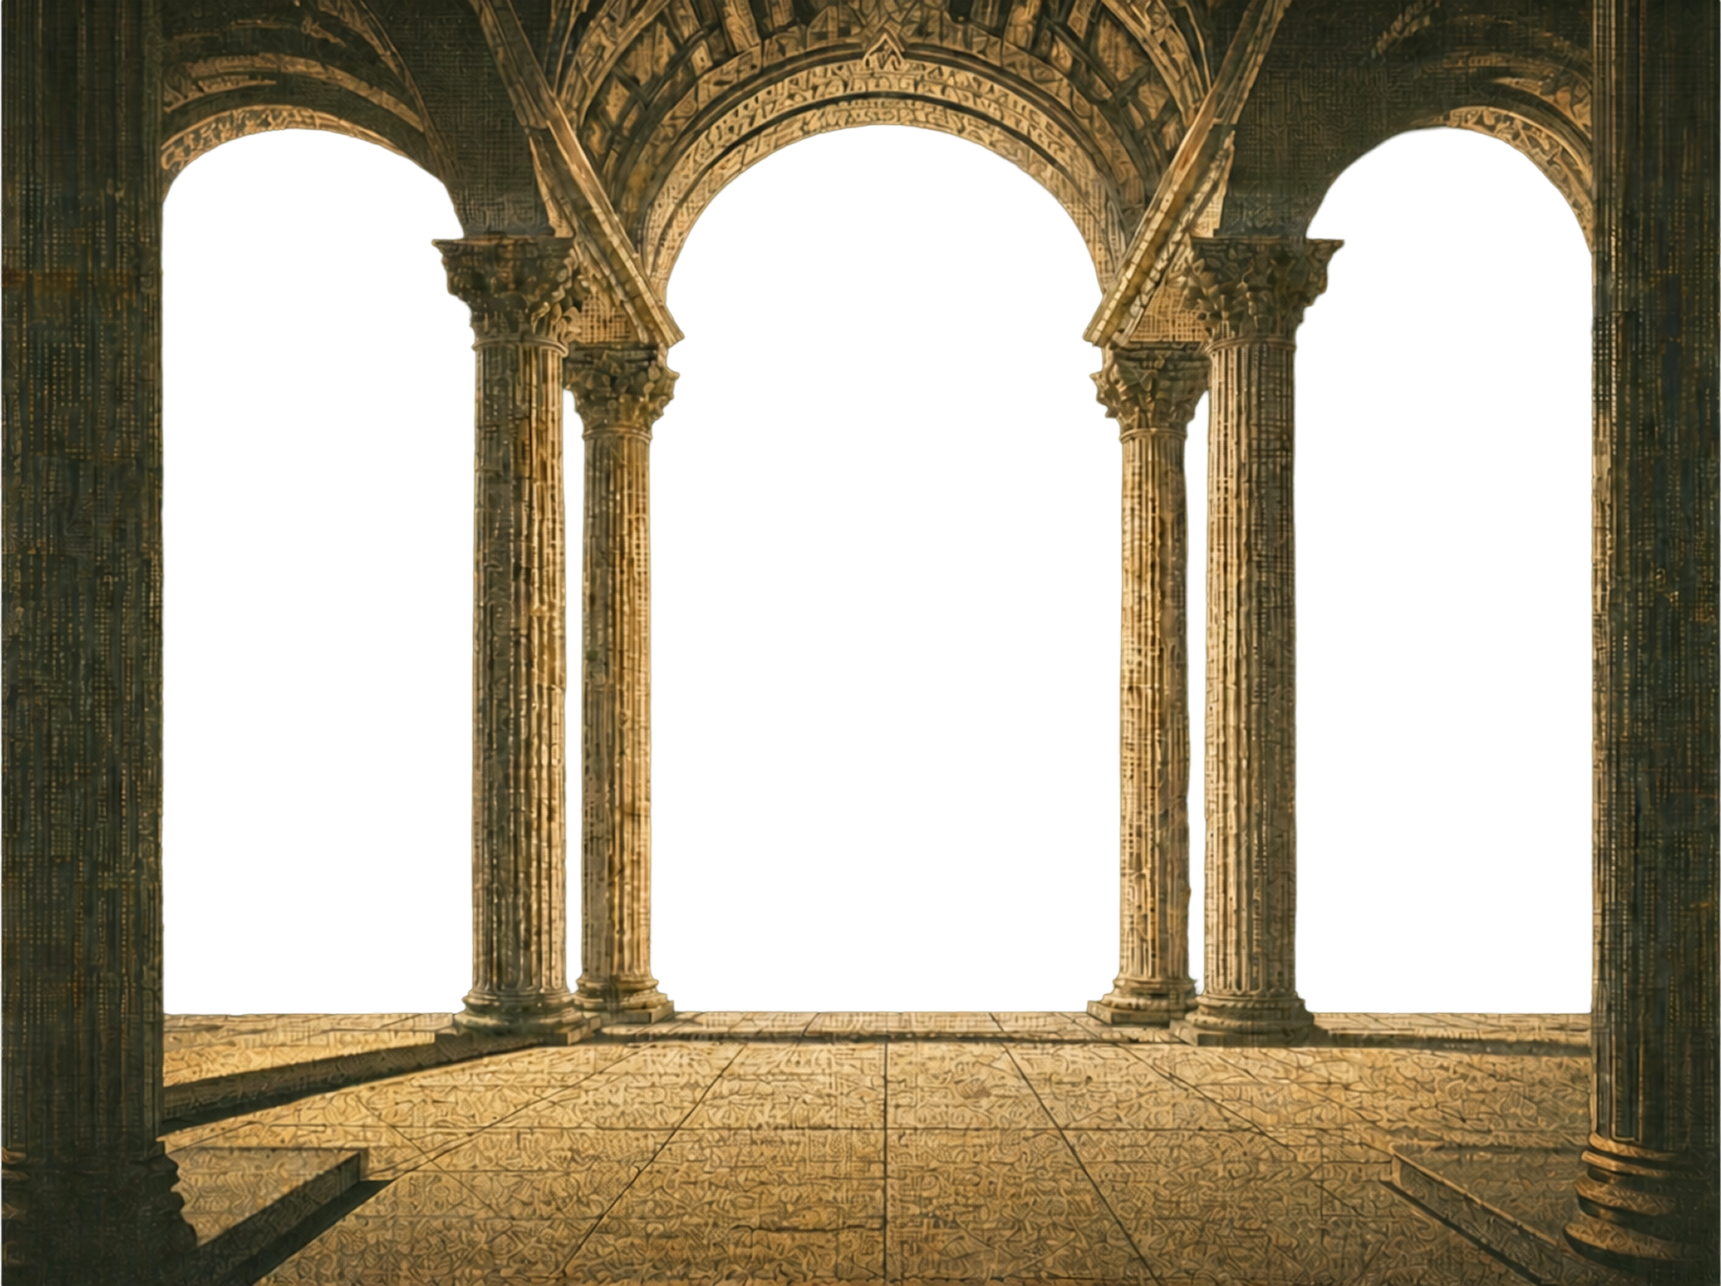
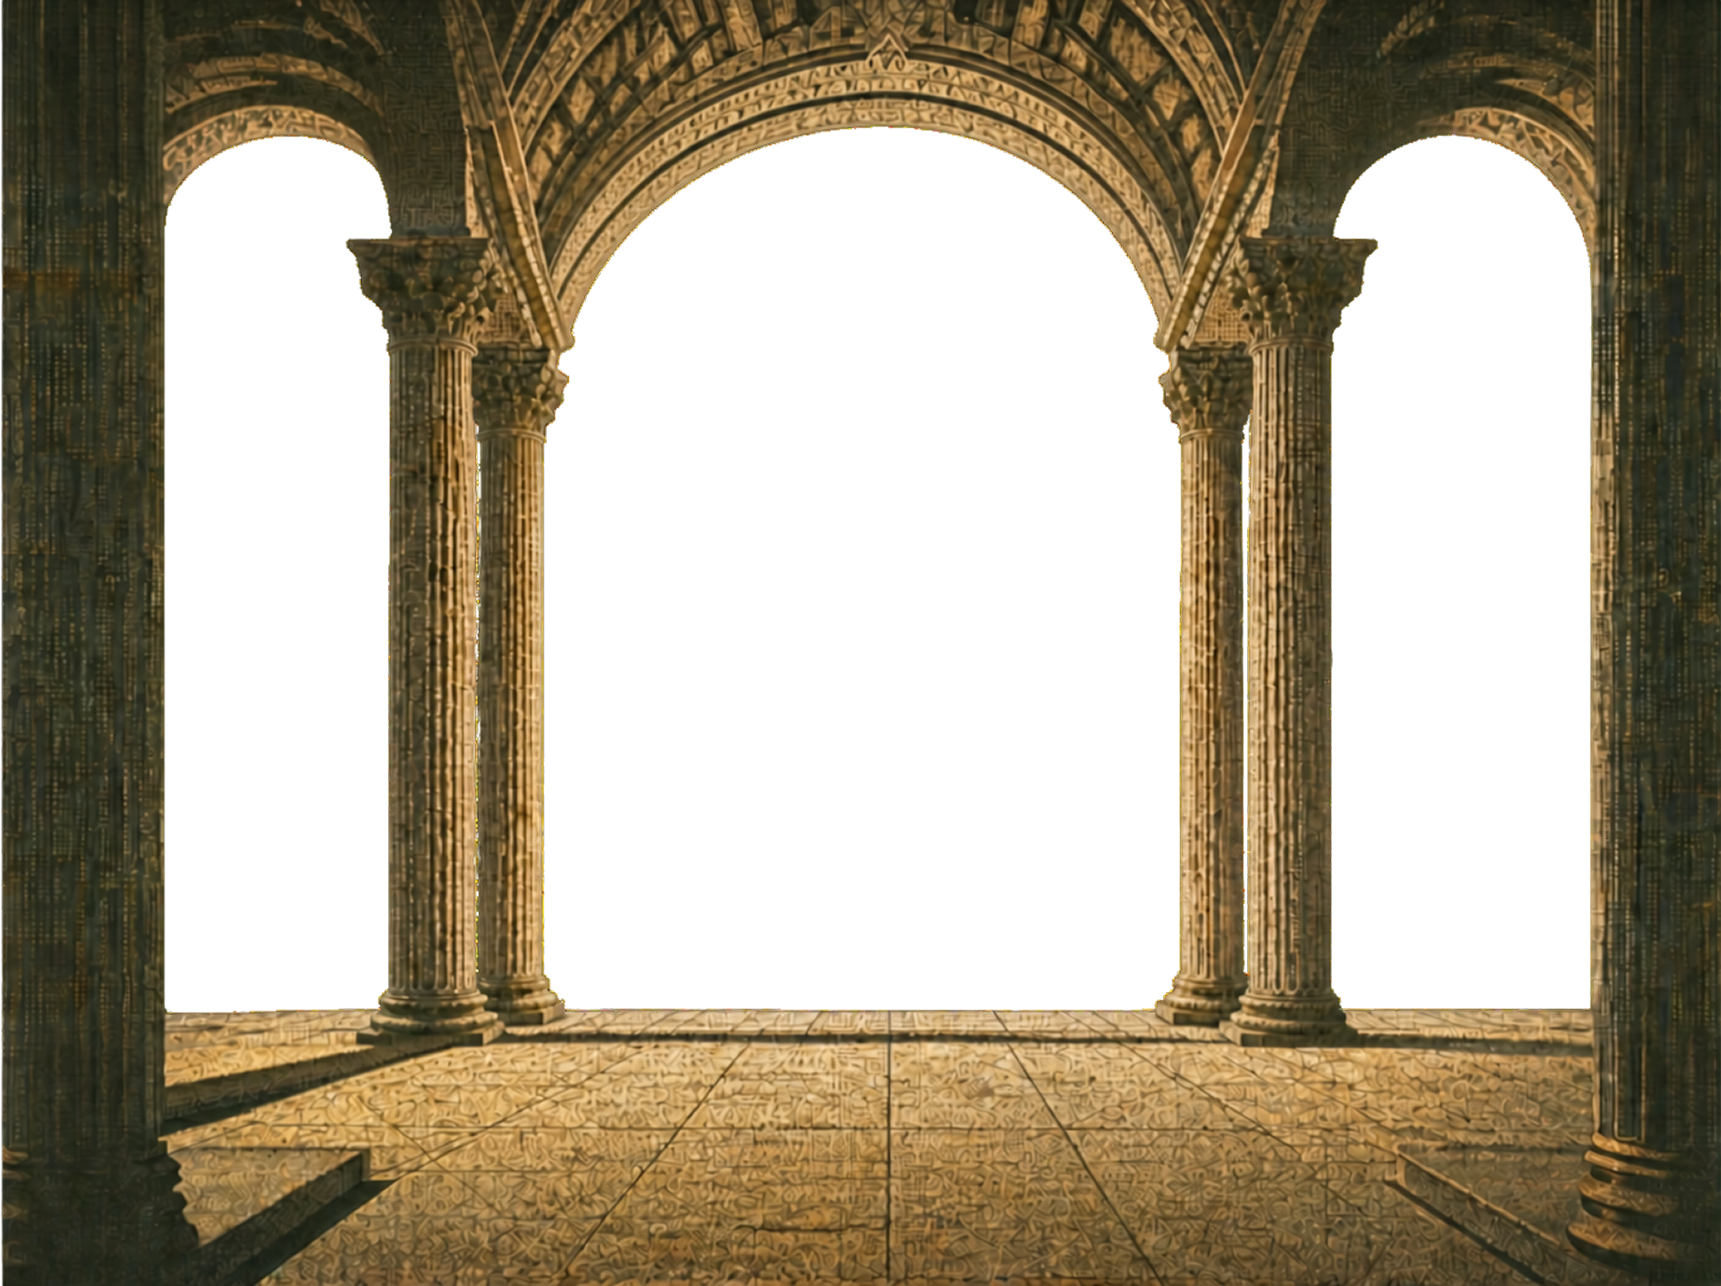
Hero: new 2-C arch plate, resampled higher, and a wider scene-2 measure
The updated 2-C opens the central arch from 0.271 to 0.368 of the plate and
recentres it on exactly 0.500 (it was 0.515), so the mission copy no longer
needs its 51.7% nudge.

Resolution. The source render is 1721x1286 and genuinely soft at 1:1, so there
is no hidden detail to recover — what there was to fix is everything we were
adding on top of it:

  - the arch now encodes at 2582px (1.5x lanczos + light unsharp) so the 1.8x
    entrance dolly and retina are not both upscaling a 1721px texture;
  - it encodes at q88/effort 6 instead of q82, alphaQuality 100 so the cut-out
    edge stays clean;
  - next/image was re-encoding our already-lossy WebP at its default q75, a
    second lossy pass. quality={90} on that one layer, whitelisted via
    images.qualities.

Retina now gets 2582x1929 AVIF at 189KB where it used to get 1721x1286 at 96KB
— 2.25x the pixels for +93KB, spent on the one layer held still under copy.
effort:6 also shaved 3% off the other six layers for free.

Scene-2 copy. Smaller and wider, per the new opening: 26.7px/454px at 1440
where it was 32px/360px. Both dimensions now derive from --arch, the opening's
real width (0.368 * max(100vw, 1.338 * 100svh)) — vw-driven on wide screens,
svh-driven in portrait, where the plate is taller than the stage. Tablet was
the case that needed it: 834x1112 was rendering 17.6px type 263px wide inside
a 548px opening, and now reads at the same proportion as desktop.
[…]

diff --git a/app/globals.css b/app/globals.css
@@ -153,11 +153,13 @@ html.lenis, html.lenis body { height: auto; }
 /* S2 + finale elements stay hidden until the scroll script reveals them (also the no-JS first paint) */
 .hs-s2 { opacity: 0; visibility: hidden; }
 .hs-vignette { position: absolute; inset: 0; pointer-events: none; background: radial-gradient(ellipse at 50% 46%, transparent 36%, rgb(18 16 10 / 45%) 72%, rgb(18 16 10 / 78%) 100%); }
-/* the arch opening in 2-C runs 0.316–0.684 — symmetric, and full width from 0.35 down, so
-   530px on a 1440x810 stage (the layer is cover-fit; at ratios >= 1.34 one image-% is one vw).
-   The column holds inside that with ~38px of air each side so no word touches a shaft. */
-.hs-mission { position: absolute; left: 50%; top: 46.5%; width: min(34rem, 31.5vw); transform: translate(-50%, -50%); text-align: center; }
-.hs-mission p { position: relative; margin: 0; color: #fff; font-family: var(--font-sans); font-size: clamp(1.1rem, 1.85vw, 2.05rem); font-weight: 700; line-height: 1.24; letter-spacing: -.011em; text-shadow: var(--halo-green); }
+/* The arch opening in 2-C runs 0.316–0.684 of the plate — symmetric, and at full width from
+   0.35 down. The layer is cover-fit, so the opening measures 0.368 * max(100vw, 1.338 * 100svh):
+   vw-driven on wide screens, svh-driven in portrait, where the plate is taller than the stage.
+   Width and type both derive from --arch so the block reads identically at any aspect ratio;
+   0.856 of the opening leaves ~38px of air each side at 1440 so no word touches a shaft. */
+.hs-mission { --arch: max(36.8vw, 49.2svh); position: absolute; left: 50%; top: 47.5%; width: min(34rem, calc(var(--arch) * .856)); transform: translate(-50%, -50%); text-align: center; }
+.hs-mission p { position: relative; margin: 0; color: #fff; font-family: var(--font-sans); font-size: clamp(1.1rem, calc(var(--arch) * .0503), 2.05rem); font-weight: 700; line-height: 1.24; letter-spacing: -.011em; text-shadow: var(--halo-green); }
 .hs-word { display: inline-block; opacity: 0; visibility: hidden; }
 /* serif interlude riding the sky dissolve: two centered white lines, revealed word by word */
 .hs-interlude { position: absolute; z-index: 13; left: 50%; top: 44%; width: min(64rem, 88vw); margin: 0; transform: translate(-50%, -50%); text-align: center; color: var(--text-on-image); font-family: var(--font-editorial); font-size: clamp(2.4rem, 5vw, 5rem); font-weight: 400; letter-spacing: -.05em; line-height: 1.05; text-shadow: var(--halo-green); text-wrap: unset; }
@@ -175,7 +177,7 @@ html.lenis, html.lenis body { height: auto; }
 .hero-stage-static { height: auto; min-height: 0; }
 .hs-static-panel { position: relative; height: 100svh; min-height: 37.5rem; overflow: hidden; background: var(--surface-deep); }
 .hs-static-panel img { object-fit: cover; }
-.hs-mission-static { position: absolute; left: 50%; top: 52%; width: min(34rem, 84vw); margin: 0; transform: translate(-50%, -50%); text-align: center; color: #fff; font-family: var(--font-sans); font-size: clamp(1.1rem, 1.85vw, 2.05rem); font-weight: 700; line-height: 1.24; letter-spacing: -.011em; text-shadow: var(--halo-green); }
+.hs-mission-static { --arch: max(36.8vw, 49.2svh); position: absolute; left: 50%; top: 52%; width: min(34rem, 84vw, calc(var(--arch) * .856)); margin: 0; transform: translate(-50%, -50%); text-align: center; color: #fff; font-family: var(--font-sans); font-size: clamp(1.1rem, calc(var(--arch) * .0503), 2.05rem); font-weight: 700; line-height: 1.24; letter-spacing: -.011em; text-shadow: var(--halo-green); }
 .hs-interlude-static { top: 22%; }
 .hs-interlude-static span { display: block; }
 /* left-anchored copy block (ref layout): big word + inline connector per line, lede below */

diff --git a/components/hero/HeroScroll.tsx b/components/hero/HeroScroll.tsx
@@ -282,7 +282,7 @@ export function HeroScroll() {
           <div className="hs-inner" data-hsp="s1-d"><Image src={HERO_ASSETS.s1Trees} alt="" fill loading="eager" sizes="100vw" /></div>
         </div>
         <div className="hs-layer hs-s2 hs-move" data-hs="s2-c">
-          <div className="hs-inner"><Image src={HERO_ASSETS.s2Arch} alt="" fill sizes="100vw" /></div>
+          <div className="hs-inner"><Image src={HERO_ASSETS.s2Arch} alt="" fill sizes="100vw" quality={90} /></div>
         </div>
         <div className="hs-vignette hs-s2" aria-hidden="true" />
       </div>

diff --git a/next.config.ts b/next.config.ts
@@ -3,6 +3,10 @@ import type { NextConfig } from "next";
 const nextConfig: NextConfig = {
   images: {
     formats: ["image/avif", "image/webp"],
+    // 75 is the default every other image uses; 90 is opt-in for the hero arch, whose
+    // source is already a tuned WebP — re-encoding it at 75 was a second lossy pass
+    // and it is the one layer held still under copy where that shows.
+    qualities: [75, 90],
   },
   poweredByHeader: false,
 };
